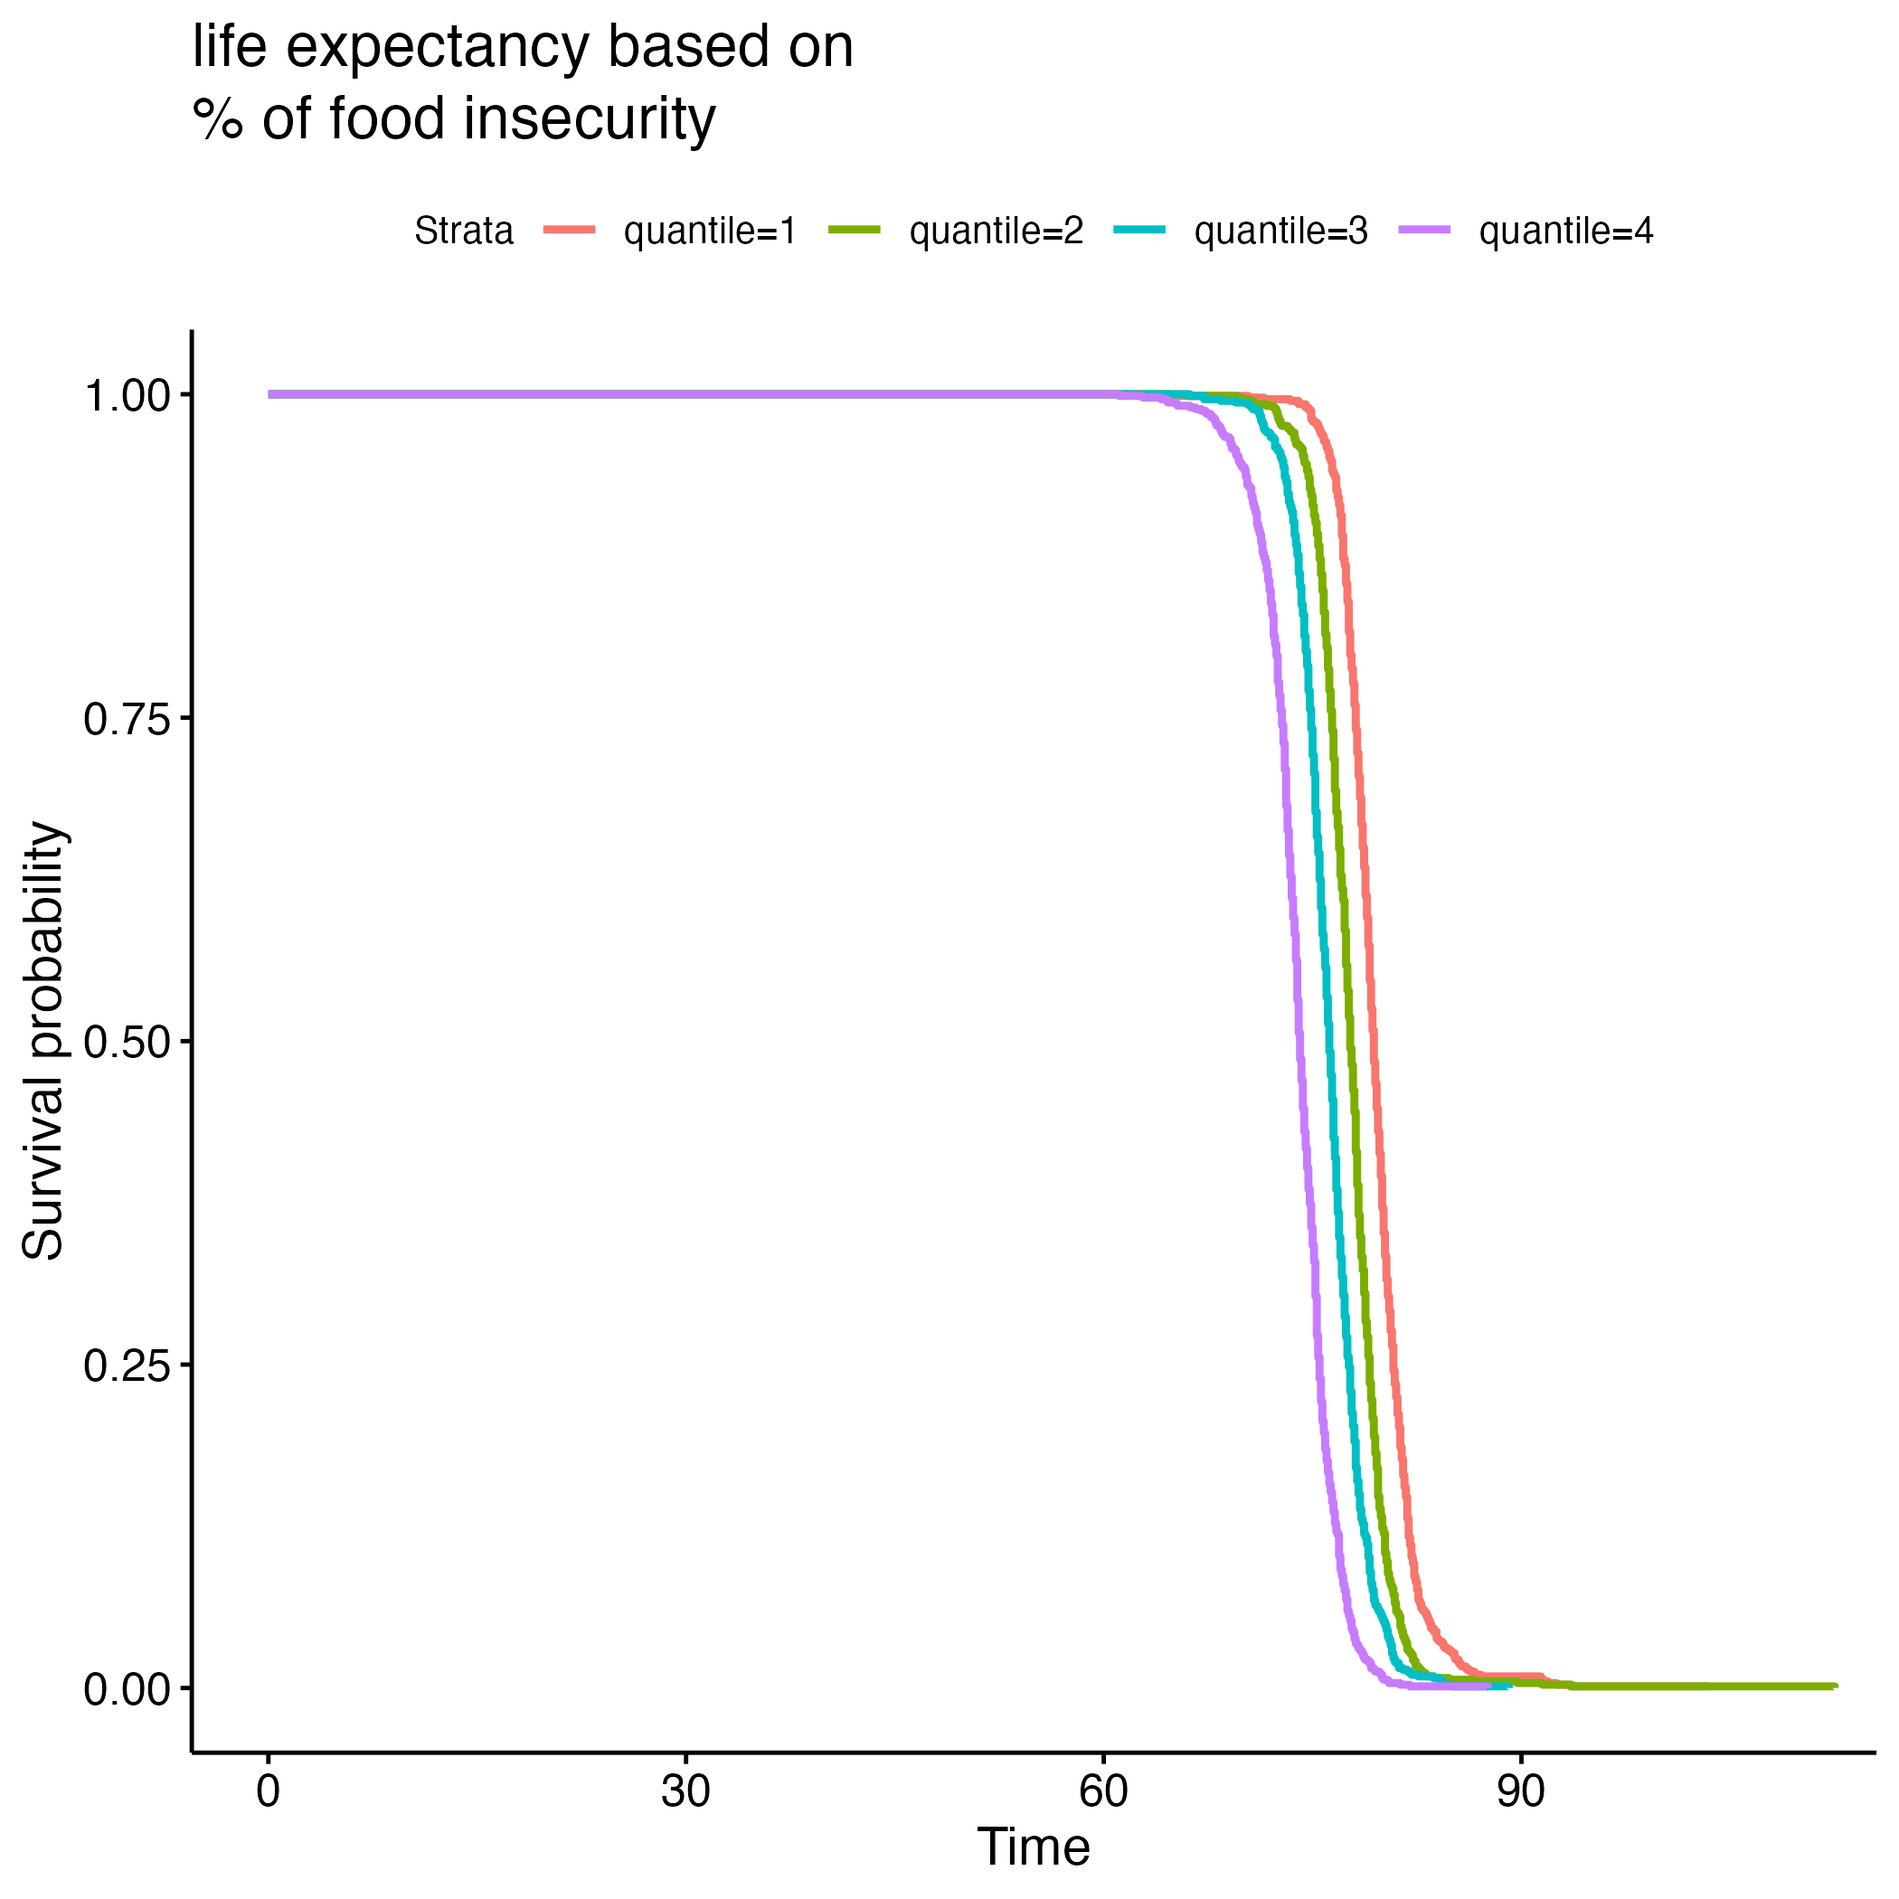
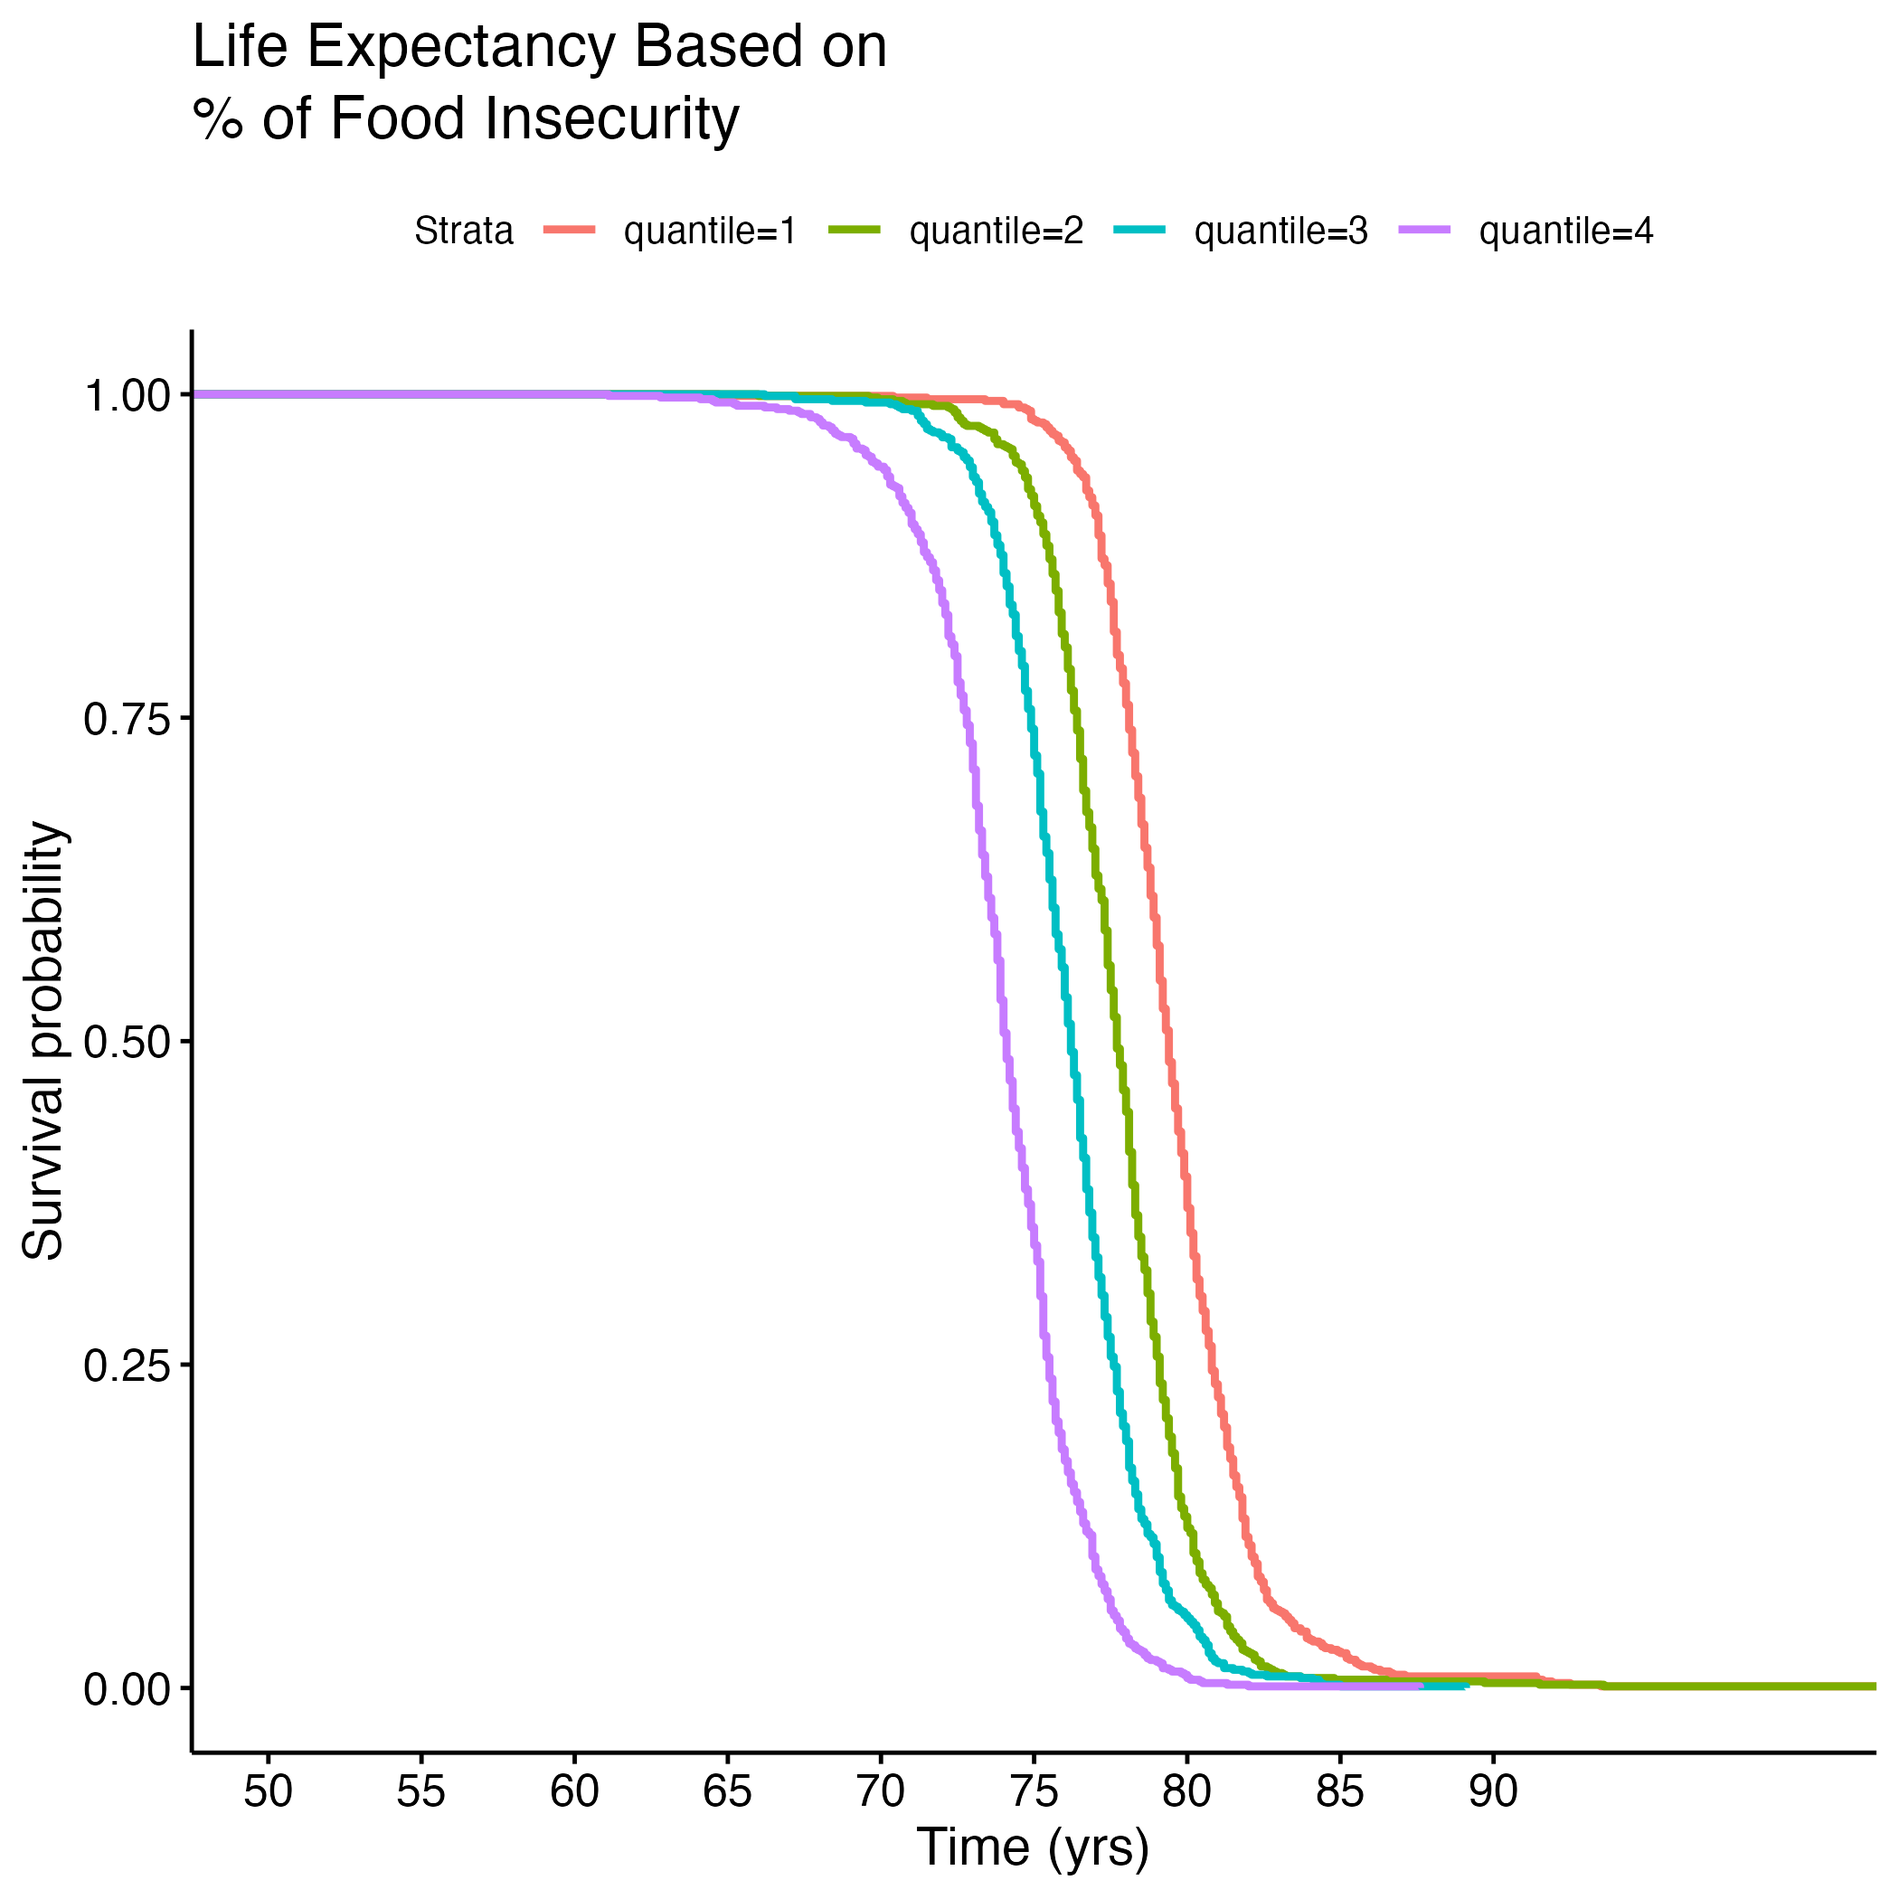
Built site for gh-pages

diff --git a/capstone.html b/capstone.html
@@ -6,7 +6,7 @@
 
 <meta name="viewport" content="width=device-width, initial-scale=1.0, user-scalable=yes">
 
-<meta name="dcterms.date" content="2024-08-08">
+<meta name="dcterms.date" content="2024-08-10">
 
 <title>Preventative Care in the United States</title>
 <style>
@@ -135,7 +135,7 @@ pre > code.sourceCode > span > a:first-child::before { text-decoration: underlin
       <div>
       <div class="quarto-title-meta-heading">Published</div>
       <div class="quarto-title-meta-contents">
-        <p class="date">August 8, 2024</p>
+        <p class="date">August 10, 2024</p>
       </div>
     </div>
     
@@ -212,8 +212,8 @@ pre > code.sourceCode > span > a:first-child::before { text-decoration: underlin
 <section id="introduction" class="level1" data-number="1">
 <h1 data-number="1"><span class="header-section-number">1</span> Introduction</h1>
 <p>To investigate the current health status of individuals in the United States and propose metrics to improve health, we explored relationships between county health rankings and overall health outcomes.</p>
-<p>We first took a broad look at our data and emgineered a variable that encapsulates all available health metrics to discover what factors are most important to health overall.</p>
-<p>Additionally, we focused in our search onto just preventative care’s impact on health as prior research (see below) has already suggested access to affordable preventative care has a tremendous impact on health quality. We quantified the extent to which access to care impacts common health metrics such as life expectancy, mortality, and infant mortality.</p>
+<p>We first took a broad look at our data and engineered a variable to represent overall health. Using this new variable, we discovered what factors are most important to health as a whole.</p>
+<p>Then, we focused in our search onto just preventative care’s impact on health as prior research (see below) has already suggested access to affordable preventative care has a tremendous impact on health quality. We quantified the extent to which access to care impacts common health metrics such as life expectancy, mortality, and infant mortality.</p>
 <p>By examining these relationships, we aimed to contribute to the understanding of how preventative care can improve the deterioriating public health in the United States.</p>
 </section>
 <section id="background" class="level1" data-number="2">
@@ -240,10 +240,10 @@ But how can an uninsured individual even access primary care to avoid hospital f
 </div>
 </div>
 </div>
-<p>As for insurance’s impact on health, measuring it becomes tricky in the United States. Though countries with univeral public health insurance are healthier at the global level, the United States is the only high-income country to not offer health coverage to all citizens.<a href="#ref9">⁹</a>𝄒<a href="#ref10">¹⁰</a> Instead, both private and public healthcare co-exist, where public healthcare is not available to everyone.</p>
+<p>As for insurance’s impact on health, measuring it becomes tricky in the United States. Though countries with univeral public health insurance are healthier at the global level, the United States is the only high-income country to not offer health coverage to all citizens.<a href="#ref9">⁹</a>𝄒<a href="#ref10">¹⁰</a> Instead, both private and public healthcare co-exist, where neither option is available to all.</p>
 <p>In the United States, public healthcare is available to those who are disabled or over 65 years old through Medicare. Medicare is not always free, but generally more affordable than private health insurance. Low income Americans can also receive free public healthcare through Medicaid. Public healthcare is funded through both federal and state health expenditures.</p>
-<p>While this system may have been implemented with good intentions, the current reality is that for-profit institutions are decentivized from accepting Medcaid and Medicare patients. This is because public health insurance in the United States reimburses health centers at a low rate- much lower than private insurance. As of 2022, when our data was collected, Medicare reimbursement was at an all-time low. By the end of the year, this added up to $99.2 billion in underpaid Medicare treatments.<a href="#ref2">²</a></p>
-<p>Sadly, research has shown that Medicaid patients have reduced access to care.<a href="#ref12">¹²</a> Furthermore, Medicaid populations are made up of a more diverse population than the rest of the United States’ population. What this means is that our minority populations and those most of need in care are most likely unable to get it.<a href="#ref4">⁴</a> This is a problem and needs a solution. Our research seeks to face this problem and provide knowledge and resources to those who have found themselves in such a situation.</p>
+<p>While this system may have been implemented with good intentions, the current reality is that for-profit institutions are disincentivized from accepting Medcaid and Medicare patients. This is because public health insurance in the United States reimburses health centers at a low rate- much lower than private insurance. As of 2022, when our data was collected, Medicare reimbursement was at an all-time low. By the end of the year, this added up to $99.2 billion in unpaid Medicare treatments.<a href="#ref2">²</a></p>
+<p>Sadly, research has also shown that Medicaid patients have reduced access to care.<a href="#ref12">¹²</a> Medicaid populations are made up of a more diverse population than the rest of the United States’ population, which means our minority populations and those most of need in care have the hardest time getting it.<a href="#ref4">⁴</a> This is a problem and needs a solution. Our research seeks to face this problem and provide knowledge and resources to those who have found themselves in such a situation.</p>
 </section>
 <section id="data" class="level1" data-number="3">
 <h1 data-number="3"><span class="header-section-number">3</span> Data</h1>
@@ -1644,7 +1644,7 @@ window.document.addEventListener("DOMContentLoaded", function (event) {
 });
 </script>
 </div> <!-- /content -->
-<script>var lightboxQuarto = GLightbox({"selector":".lightbox","closeEffect":"zoom","loop":false,"descPosition":"bottom","openEffect":"zoom"});
+<script>var lightboxQuarto = GLightbox({"loop":false,"selector":".lightbox","closeEffect":"zoom","descPosition":"bottom","openEffect":"zoom"});
 (function() {
   let previousOnload = window.onload;
   window.onload = () => {

diff --git a/index.html b/index.html
@@ -6,7 +6,7 @@
 
 <meta name="viewport" content="width=device-width, initial-scale=1.0, user-scalable=yes">
 
-<meta name="dcterms.date" content="2024-08-08">
+<meta name="dcterms.date" content="2024-08-10">
 
 <title>Preventative Care in the United States</title>
 <style>
@@ -135,7 +135,7 @@ pre > code.sourceCode > span > a:first-child::before { text-decoration: underlin
       <div>
       <div class="quarto-title-meta-heading">Published</div>
       <div class="quarto-title-meta-contents">
-        <p class="date">August 8, 2024</p>
+        <p class="date">August 10, 2024</p>
       </div>
     </div>
     
@@ -212,8 +212,8 @@ pre > code.sourceCode > span > a:first-child::before { text-decoration: underlin
 <section id="introduction" class="level1" data-number="1">
 <h1 data-number="1"><span class="header-section-number">1</span> Introduction</h1>
 <p>To investigate the current health status of individuals in the United States and propose metrics to improve health, we explored relationships between county health rankings and overall health outcomes.</p>
-<p>We first took a broad look at our data and emgineered a variable that encapsulates all available health metrics to discover what factors are most important to health overall.</p>
-<p>Additionally, we focused in our search onto just preventative care’s impact on health as prior research (see below) has already suggested access to affordable preventative care has a tremendous impact on health quality. We quantified the extent to which access to care impacts common health metrics such as life expectancy, mortality, and infant mortality.</p>
+<p>We first took a broad look at our data and engineered a variable to represent overall health. Using this new variable, we discovered what factors are most important to health as a whole.</p>
+<p>Then, we focused in our search onto just preventative care’s impact on health as prior research (see below) has already suggested access to affordable preventative care has a tremendous impact on health quality. We quantified the extent to which access to care impacts common health metrics such as life expectancy, mortality, and infant mortality.</p>
 <p>By examining these relationships, we aimed to contribute to the understanding of how preventative care can improve the deterioriating public health in the United States.</p>
 </section>
 <section id="background" class="level1" data-number="2">
@@ -240,10 +240,10 @@ But how can an uninsured individual even access primary care to avoid hospital f
 </div>
 </div>
 </div>
-<p>As for insurance’s impact on health, measuring it becomes tricky in the United States. Though countries with univeral public health insurance are healthier at the global level, the United States is the only high-income country to not offer health coverage to all citizens.<a href="#ref9">⁹</a>𝄒<a href="#ref10">¹⁰</a> Instead, both private and public healthcare co-exist, where public healthcare is not available to everyone.</p>
+<p>As for insurance’s impact on health, measuring it becomes tricky in the United States. Though countries with univeral public health insurance are healthier at the global level, the United States is the only high-income country to not offer health coverage to all citizens.<a href="#ref9">⁹</a>𝄒<a href="#ref10">¹⁰</a> Instead, both private and public healthcare co-exist, where neither option is available to all.</p>
 <p>In the United States, public healthcare is available to those who are disabled or over 65 years old through Medicare. Medicare is not always free, but generally more affordable than private health insurance. Low income Americans can also receive free public healthcare through Medicaid. Public healthcare is funded through both federal and state health expenditures.</p>
-<p>While this system may have been implemented with good intentions, the current reality is that for-profit institutions are decentivized from accepting Medcaid and Medicare patients. This is because public health insurance in the United States reimburses health centers at a low rate- much lower than private insurance. As of 2022, when our data was collected, Medicare reimbursement was at an all-time low. By the end of the year, this added up to $99.2 billion in underpaid Medicare treatments.<a href="#ref2">²</a></p>
-<p>Sadly, research has shown that Medicaid patients have reduced access to care.<a href="#ref12">¹²</a> Furthermore, Medicaid populations are made up of a more diverse population than the rest of the United States’ population. What this means is that our minority populations and those most of need in care are most likely unable to get it.<a href="#ref4">⁴</a> This is a problem and needs a solution. Our research seeks to face this problem and provide knowledge and resources to those who have found themselves in such a situation.</p>
+<p>While this system may have been implemented with good intentions, the current reality is that for-profit institutions are disincentivized from accepting Medcaid and Medicare patients. This is because public health insurance in the United States reimburses health centers at a low rate- much lower than private insurance. As of 2022, when our data was collected, Medicare reimbursement was at an all-time low. By the end of the year, this added up to $99.2 billion in unpaid Medicare treatments.<a href="#ref2">²</a></p>
+<p>Sadly, research has also shown that Medicaid patients have reduced access to care.<a href="#ref12">¹²</a> Medicaid populations are made up of a more diverse population than the rest of the United States’ population, which means our minority populations and those most of need in care have the hardest time getting it.<a href="#ref4">⁴</a> This is a problem and needs a solution. Our research seeks to face this problem and provide knowledge and resources to those who have found themselves in such a situation.</p>
 </section>
 <section id="data" class="level1" data-number="3">
 <h1 data-number="3"><span class="header-section-number">3</span> Data</h1>
@@ -1644,7 +1644,7 @@ window.document.addEventListener("DOMContentLoaded", function (event) {
 });
 </script>
 </div> <!-- /content -->
-<script>var lightboxQuarto = GLightbox({"selector":".lightbox","descPosition":"bottom","loop":false,"closeEffect":"zoom","openEffect":"zoom"});
+<script>var lightboxQuarto = GLightbox({"descPosition":"bottom","selector":".lightbox","openEffect":"zoom","closeEffect":"zoom","loop":false});
 (function() {
   let previousOnload = window.onload;
   window.onload = () => {
